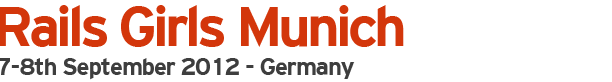
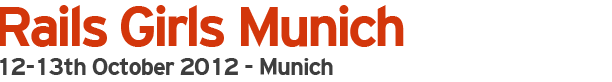
updated Munich date

Changed region(s): [[0.0, 0.7073, 0.5899, 0.9756]]

diff --git a/munich.html b/munich.html
@@ -5,11 +5,11 @@
 
 <!--  Add your city name, dates and year.  -->
  
-  <title>Munich 07-08th September 2012</title>
+  <title>Munich 12-13th October 2012</title>
   
 <!--  Write a metatext. This is what will show on the Facebook page and for instance search engines. -->
 
-  <meta name="description" content="Rails Girls is coming to Munich 07-08th September: join the two-day crash-course to the exciting world of building web applications with Ruby on Rails.">
+  <meta name="description" content="Rails Girls is coming to Munich 12-13th September: join the two-day crash-course to the exciting world of building web applications with Ruby on Rails.">
   <meta name="author" content="Rails Girls">
  
   <link rel="shortcut icon" href="/favicon.png">
@@ -70,11 +70,11 @@ Steps to show on site
     <div id="container" class="container_12 page clearfix">
       <div class="grid_12 omega alpha">
         <div id="promo" class="munich">
-        <h1>Rails Girls Munich 07-08th September 2012</h1>
+        <h1>Rails Girls Munich 12-13th October 2012</h1>
         <p>Servus Bayern!</p><p>
           Rails Girls is coming to Munich! During the free two-day workshop we'll explore the magical world of Ruby on Rails, and build an application together </p>
 <p>
-          Apply now! <a href="http://railsgirls.wufoo.com/forms/apply-to-rails-girls-munich-0708th-september/">Applications</a> are open until the 20th of August.</p>
+          Apply now! <a href="http://railsgirls.wufoo.com/forms/apply-to-rails-girls-munich-1213th-october/">Applications</a> are open until the 25th of September.</p>
 
 <!--  Update the sharing texts.-->
         
@@ -83,7 +83,7 @@ Steps to show on site
             <div>
 
             <div style="margin:0 15px 0 0;">
-              <a href="http://twitter.com/share" class="twitter-share-button" data-url="" data-text="Rails Girls Munich 07-08th September 2012 - apply now!" data-count="horizontal" data-via="railsgirls" data-related="railsgirls">
+              <a href="http://twitter.com/share" class="twitter-share-button" data-url="" data-text="Rails Girls Munich 12-13th October 2012 - apply now!" data-count="horizontal" data-via="railsgirls" data-related="railsgirls">
             Tweet</a>
               <script type="text/javascript" src="http://platform.twitter.com/widgets.js"></script>
             </div>
@@ -115,14 +115,14 @@ Steps to show on site
 <!--  Update the texts! -->
      
       <div class="grid_6 alpha">
-        <h2>Friday 07th September</h2>
+        <h2>Friday 12th October</h2>
         <table id="schedule">
           <tbody>
             <tr>
               <th>18.00 -</th>
               <td>
                 <h4>Installation party</h4>
-                  Get know the attendees a little bit before hand. Bring your laptop if you can, so we can install Ruby on Rails for you.<br>
+                  Get to know the attendees a little bit before hand. Bring your laptop if you can, so we can install Ruby on Rails for you.<br>
                   <strong>Where: Propertybase GmbH Offices</strong>
                   
                   
@@ -141,7 +141,7 @@ Steps to show on site
         
         <hr />          
         
-        <h2>Saturday 08th September</h2>
+        <h2>Saturday 13th October</h2>
         
         <table id="schedule">
           <tbody>
@@ -235,8 +235,8 @@ Steps to show on site
       <div class="grid_5 push_1 omega side">
         
         <h3>Information</h3>
-              <p><strong><a href="http://railsgirls.wufoo.com/forms/apply-to-rails-girls-munich-0708th-september/">Applications</a> close:</strong> August 20th<br/>
-                <strong>Acceptances informed:</strong> August 23rd</p>
+              <p><strong><a href="http://railsgirls.wufoo.com/forms/apply-to-rails-girls-munich-1213th-october/">Applications</a> close:</strong> September 25th<br/>
+                <strong>Acceptances informed:</strong>September 27th</p>
               <p><strong>Location:</strong> Propertybase GmbH, Landwehrstraße 63, 80336 Munich</p>
             
             
@@ -246,14 +246,20 @@ Steps to show on site
        <h3>Partners</h3>
        <p>Rails Girls Munich needs the support of awesome partners.</p>
          <p>Want to help? We're looking for partners &amp; sponsors for the non-profit event! <a href="mailto:regan.sara@gmail.com>">Email us</a>! </p>
-     <hr/>
+     <p>
+     		<a href="http://www.propertybase.com"
+style="float:right; margin:0 0 0; border:0;"><img 
+src=" ./images/propertybase.png" alt="Propertybase"></a>
+				<a href="http://www.propertybase.com">Propertybase</a> is a lean, fast-growing technology company headquartered in Munich, Germany. Our Propertybase software is the leading cloud-computing CRM platform for real estate companies.
+				
+     </p>
      <h3>FAQ</h3>
       <p><strong>How much does the workshop cost?</strong>
           Nothing, it's free! You just need to be excited!
       </p>
        <p>
          <strong>Who is this aimed for?</strong>
-         Women of any age with basic knowledge of working with a computer. We’ve had people of all ages taking part. Most of the speeches will given in English, but we will also have options to work in German. Please bring your laptop.
+         Women of any age with basic knowledge of working with a computer. We’ve had people of all ages taking part. Talks will be conducted in English, but you are free to work in German amongst your group. Please bring your laptop.
        </p>
        <p>
          <strong>Can men attend?</strong>
@@ -261,10 +267,8 @@ Steps to show on site
        </p>
        <p>
          <strong>I know how to program - How can I help?</strong>
-         We’re also desperately looking for people to be coaches!! We’ll have a two-three hour workshop before the event to walk you through the curriculum. <a href="mailto:regan.sara@gmail.com>">Email us</a>
+         We’re also looking for people to be coaches! We’ll have a two-three hour workshop before the event to walk you through the curriculum. <a href="mailto:regan.sara@gmail.com>">Email us</a>
        </p>
-      
-        
       </div>
       
       

diff --git a/events.html b/events.html
@@ -75,8 +75,8 @@
         <div class="event grid_4 tba alpha" style="background:url(images/ruby-100.png) 100px 20px no-repeat;">
             <h3>Stockholm, Sweden <small>September 2012</small></h3>   
         </div>
-        <div class="omega event grid_4 tba" style="background:url(images/ruby-100.png) 100px 20px no-repeat;">
-            <h3>Munich, Germany <small>September 2012</small></h3>   
+        <div class="omega event grid_4 tba" style="background:url(images/rg-munich.png) 0px -40px no-repeat;">
+            <h3>Munich, Germany <small>12-13 October 2012</small></h3>   
         </div>
         <div class="event grid_4 tba" style="background:url(images/rubie-100.png) 95px 20px no-repeat;">
             <h3>Vienna, Austria <small>October 2012</small></h3>   
